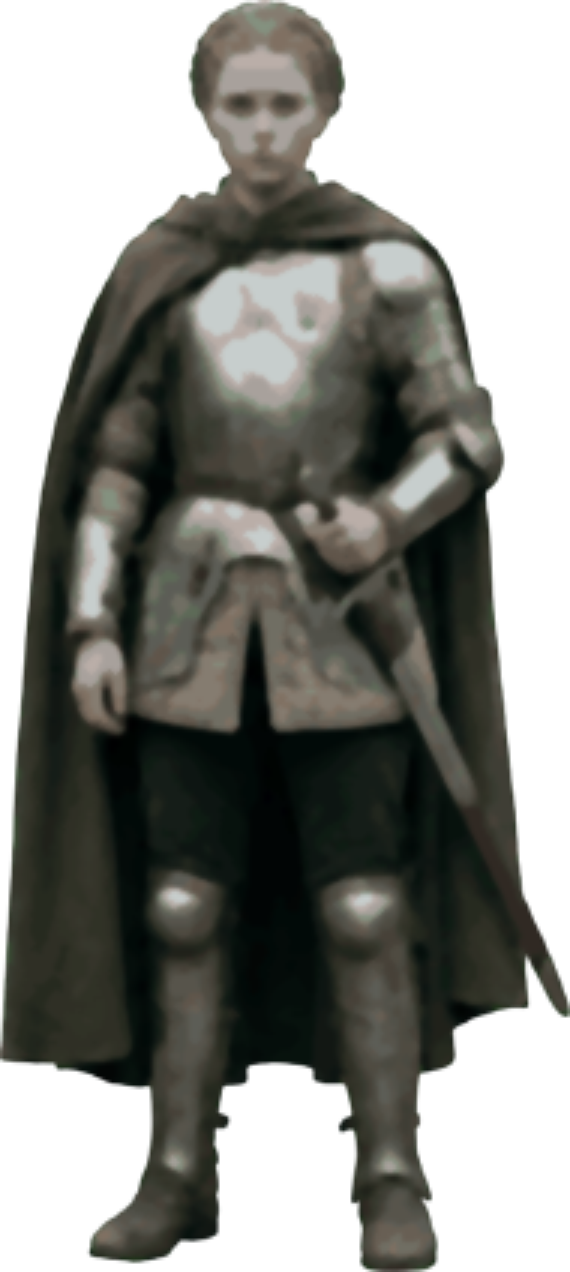
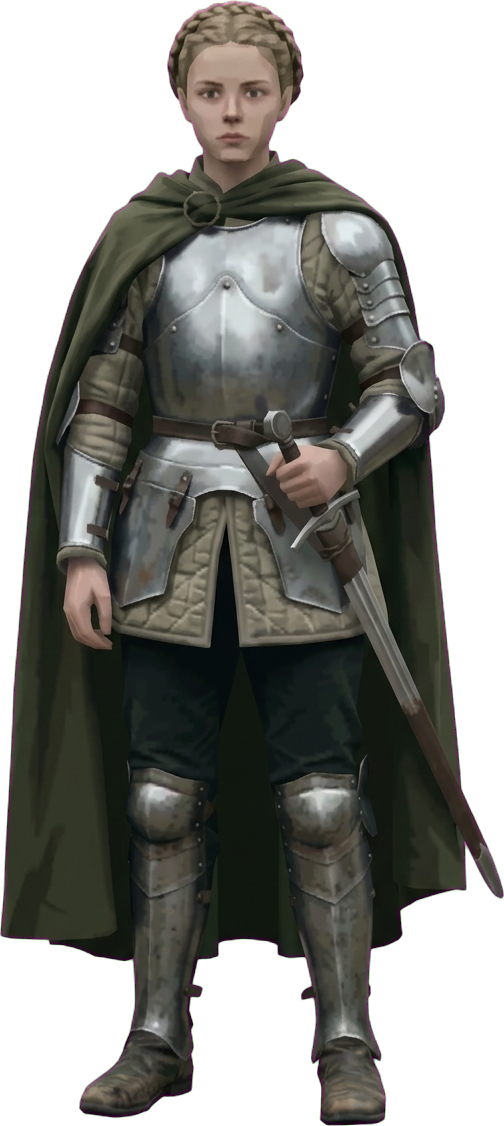
Stufe 5: erzeugtes Bild ohne Spiegelung statt weichgezeichneter Fassung; Kapitel 7 zeigt grobe Figur
Claude-Session: https://claude.ai/code/session_01CCV1sQUBMjPPCSfHnSNG68

diff --git a/06-geschichte.html b/06-geschichte.html
@@ -70,11 +70,13 @@ blickrichtung = <span class="hn">0.8</span>                  <span class="hc"># 
 <ul><li><b>1996:</b> Die ersten verbreiteten 3D-Karten übernehmen Rasterisierung, Textur und Tiefenpuffer. Die Projektion der Eckpunkte rechnet weiter der Prozessor.</li>
 <li><b>1999:</b> Die Karten übernehmen auch Drehung, Verschiebung und Projektion der Eckpunkte. Seitdem heißt der Baustein GPU (Graphics Processing Unit).</li>
 <li><b>Ab 2001:</b> Bis dahin war der Rechenweg in der Karte fest verdrahtet. Jetzt lässt er sich programmieren. Spielestudios schreiben kleine Programme, die die Karte für jeden Eckpunkt und für jedes Pixel ausführt. Sie heißen <b>Shader</b>. Ein Pixel-Shader berechnet zum Beispiel die Helligkeit aus dem Winkel zum Licht (<a href="05-licht.html#winkel">Kapitel 5, Weg 1</a>) für jedes Pixel einzeln statt einmal pro Dreieck.</li></ul>
-<p><b>Die Idee dahinter:</b> nicht schneller rechnen, sondern gleichzeitig.</p></div><div><img src="img/s5-licht.png" alt=""></div></section><section class="stufe"><div><div class="eyebrow">SEIT 2018</div><h2>Raytracing in Echtzeit</h2>
+<p><b>Die Idee dahinter:</b> nicht schneller rechnen, sondern gleichzeitig.</p>
+<p><b>Zum Bild:</b> Die Figur ist detailliert und pro Pixel beleuchtet. Die Rüstung glänzt, aber sie spiegelt ihre Umgebung nicht. Für eine echte Spiegelung müsste man wissen, was von der Rüstung aus zu sehen ist, und genau das kann die Rasterisierung nicht beantworten.</p></div><div><img src="img/s5-licht.png" alt=""></div></section><section class="stufe"><div><div class="eyebrow">SEIT 2018</div><h2>Raytracing in Echtzeit</h2>
 <p>Raytracing (<a href="05-licht.html#raytracing">Kapitel 5, Weg 2</a>) galt lange als zu teuer für Spiele. Pro Strahl muss der <a href="05-licht.html#baum">Baum aus Hüllkörpern</a> durchlaufen werden: Trifft der Strahl diesen Quader? Trifft er dieses Dreieck? Diese beiden Tests fallen milliardenfach pro Sekunde an.</p>
 <p>Seit 2018 enthalten Grafikkarten dafür eigene <b>Schaltungen</b>. Das bedeutet: Der Test ist nicht mehr ein Programm, das Befehl für Befehl abgearbeitet wird. Er ist direkt als Bauteil in den Chip gebaut. Ein solches Bauteil kann nur diese eine Rechnung, erledigt sie aber um ein Vielfaches schneller, und es gibt sehr viele davon nebeneinander.</p>
 <p>Trotzdem reicht die Leistung nur für wenige Strahlen pro Pixel. Für weiche Schatten oder Spiegelungen auf rauen Flächen bräuchte man eigentlich Hunderte. Das Ergebnis mit wenigen Strahlen ist körnig, wie ein Foto bei zu wenig Licht. Deshalb wird das Bild anschließend <b>entrauscht</b>: Jedes Pixel wird mit seinen Nachbarn und mit dem vorherigen Bild verrechnet.</p>
-<p>Heutige Spiele kombinieren beide Welten: Rasterisierung für das Grundbild, Raytracing für Schatten, Spiegelungen und indirektes Licht.</p></div><div><img src="img/s6-heute.png" alt=""></div></section>
+<p>Heutige Spiele kombinieren beide Welten: Rasterisierung für das Grundbild, Raytracing für Schatten, Spiegelungen und indirektes Licht.</p>
+<p><b>Zum Bild:</b> Vergleiche die Rüstung mit der Stufe davor. Jetzt spiegelt das Metall seine Umgebung, weil für jedes Pixel ein Strahl verfolgt wird, der von der Rüstung aus weiterläuft.</p></div><div><img src="img/s6-heute.png" alt=""></div></section>
 <div class="merke"><div class="mt">Merke</div>Jede Stufe spart Rechenzeit mit einer Idee. Nur Kanten zeichnen. Sortieren und übermalen (Maleralgorithmus). Auf einem Grundriss rechnen statt im Raum. Vorberechnen und speichern. Gleichzeitig rechnen (Grafikkarte). Häufige Tests als Schaltung bauen.</div>
 <div class="quiz" data-q="Warum scheitert der Maleralgorithmus bei zwei Dreiecken, die sich durchdringen?" data-c="0" data-why="Es gibt keine Reihenfolge, die für alle Pixel stimmt. Der Tiefenpuffer entscheidet deshalb pro Pixel."><ul><li>Weil keines der beiden vollständig vor dem anderen liegt.</li><li>Weil Sortieren zu langsam ist.</li><li>Weil Dreiecke keine Farbe haben.</li></ul></div><div class="quiz" data-q="Warum gilt Wolfenstein 3D nicht als echtes 3D?" data-c="1" data-why="Position und Karte haben nur zwei Koordinaten. Die Höhe der Wandstreifen wird aus der Entfernung berechnet."><ul><li>Weil es keine Texturen hat.</li><li>Weil die Welt ein flacher Grundriss ohne Höhe ist.</li><li>Weil es keine Perspektive zeigt.</li></ul></div><div class="quiz" data-q="Welche Aufgabe eignet sich besonders für eine Grafikkarte?" data-c="1" data-why="Nur unabhängige Teilaufgaben lassen sich auf viele Recheneinheiten verteilen."><ul><li>Eine lange Rechnung, bei der jeder Schritt das Ergebnis des vorigen braucht.</li><li>Sehr viele gleiche, voneinander unabhängige kleine Rechnungen.</li><li>Das Lesen einer Datei von der Festplatte.</li></ul></div><div class="aufgabe"><p><b>Aufgabe:</b> Wolfenstein 3D lief mit 320 × 200 Pixeln. Vergleiche die Zahl der Strahlen beim Verfahren mit dem Grundriss mit der Zahl der Strahlen, die Raytracing wie in Kapitel 5 bräuchte.</p><details><summary>Lösung anzeigen</summary><p>Grundriss: 320 Strahlen, einer pro Bildspalte. Raytracing: 320 · 200 = 64 000 Kamerastrahlen und bis zu ebenso viele Schattenstrahlen, also das 200- bis 400-Fache.</p></details></div><div class="aufgabe"><p><b>Aufgabe:</b> Ein Bild hat 2 Millionen Pixel. Eine Recheneinheit braucht für ein Pixel einen Zeitschritt. Wie viele Zeitschritte dauert das Bild mit einer Einheit, wie viele mit 4 000 Einheiten?</p><details><summary>Lösung anzeigen</summary><p>Mit einer Einheit 2 000 000 Zeitschritte. Mit 4 000 Einheiten 2 000 000 ÷ 4 000 = 500 Zeitschritte.</p></details></div><div class="aufgabe"><p><b>Aufgabe:</b> Bei Quake sind Licht und Schatten vorberechnet. Nenne einen Vorteil und einen Nachteil.</p><details><summary>Lösung anzeigen</summary><p>Vorteil: Im Spiel kostet das Licht fast keine Rechenzeit, es wird nur ein gespeichertes Bild über die Wand gelegt. Nachteil: Das Licht kann sich nicht ändern. Eine bewegte Lampe oder eine Tür, die Licht hereinlässt, ist so nicht darstellbar.</p></details></div>
 </main>

diff --git a/07-weltmodell.html b/07-weltmodell.html
@@ -6,7 +6,7 @@
 <title>Die Spielwelt – 3D-Spiele erklärt</title>
 <link rel="stylesheet" href="style.css">
 </head>
-<body data-page="8" data-fig="img/s5-licht.png" data-cap="In der Ferne genügt eine vereinfachte Fassung der Figur.">
+<body data-page="8" data-fig="img/s3-flaechen.png" data-cap="Auch Figuren haben Detailstufen: In der Ferne genügt eine Fassung aus wenigen Dreiecken.">
 <main>
 <div class="eyebrow">KAPITEL 7 VON 7</div>
 <h1>Die Spielwelt</h1>
